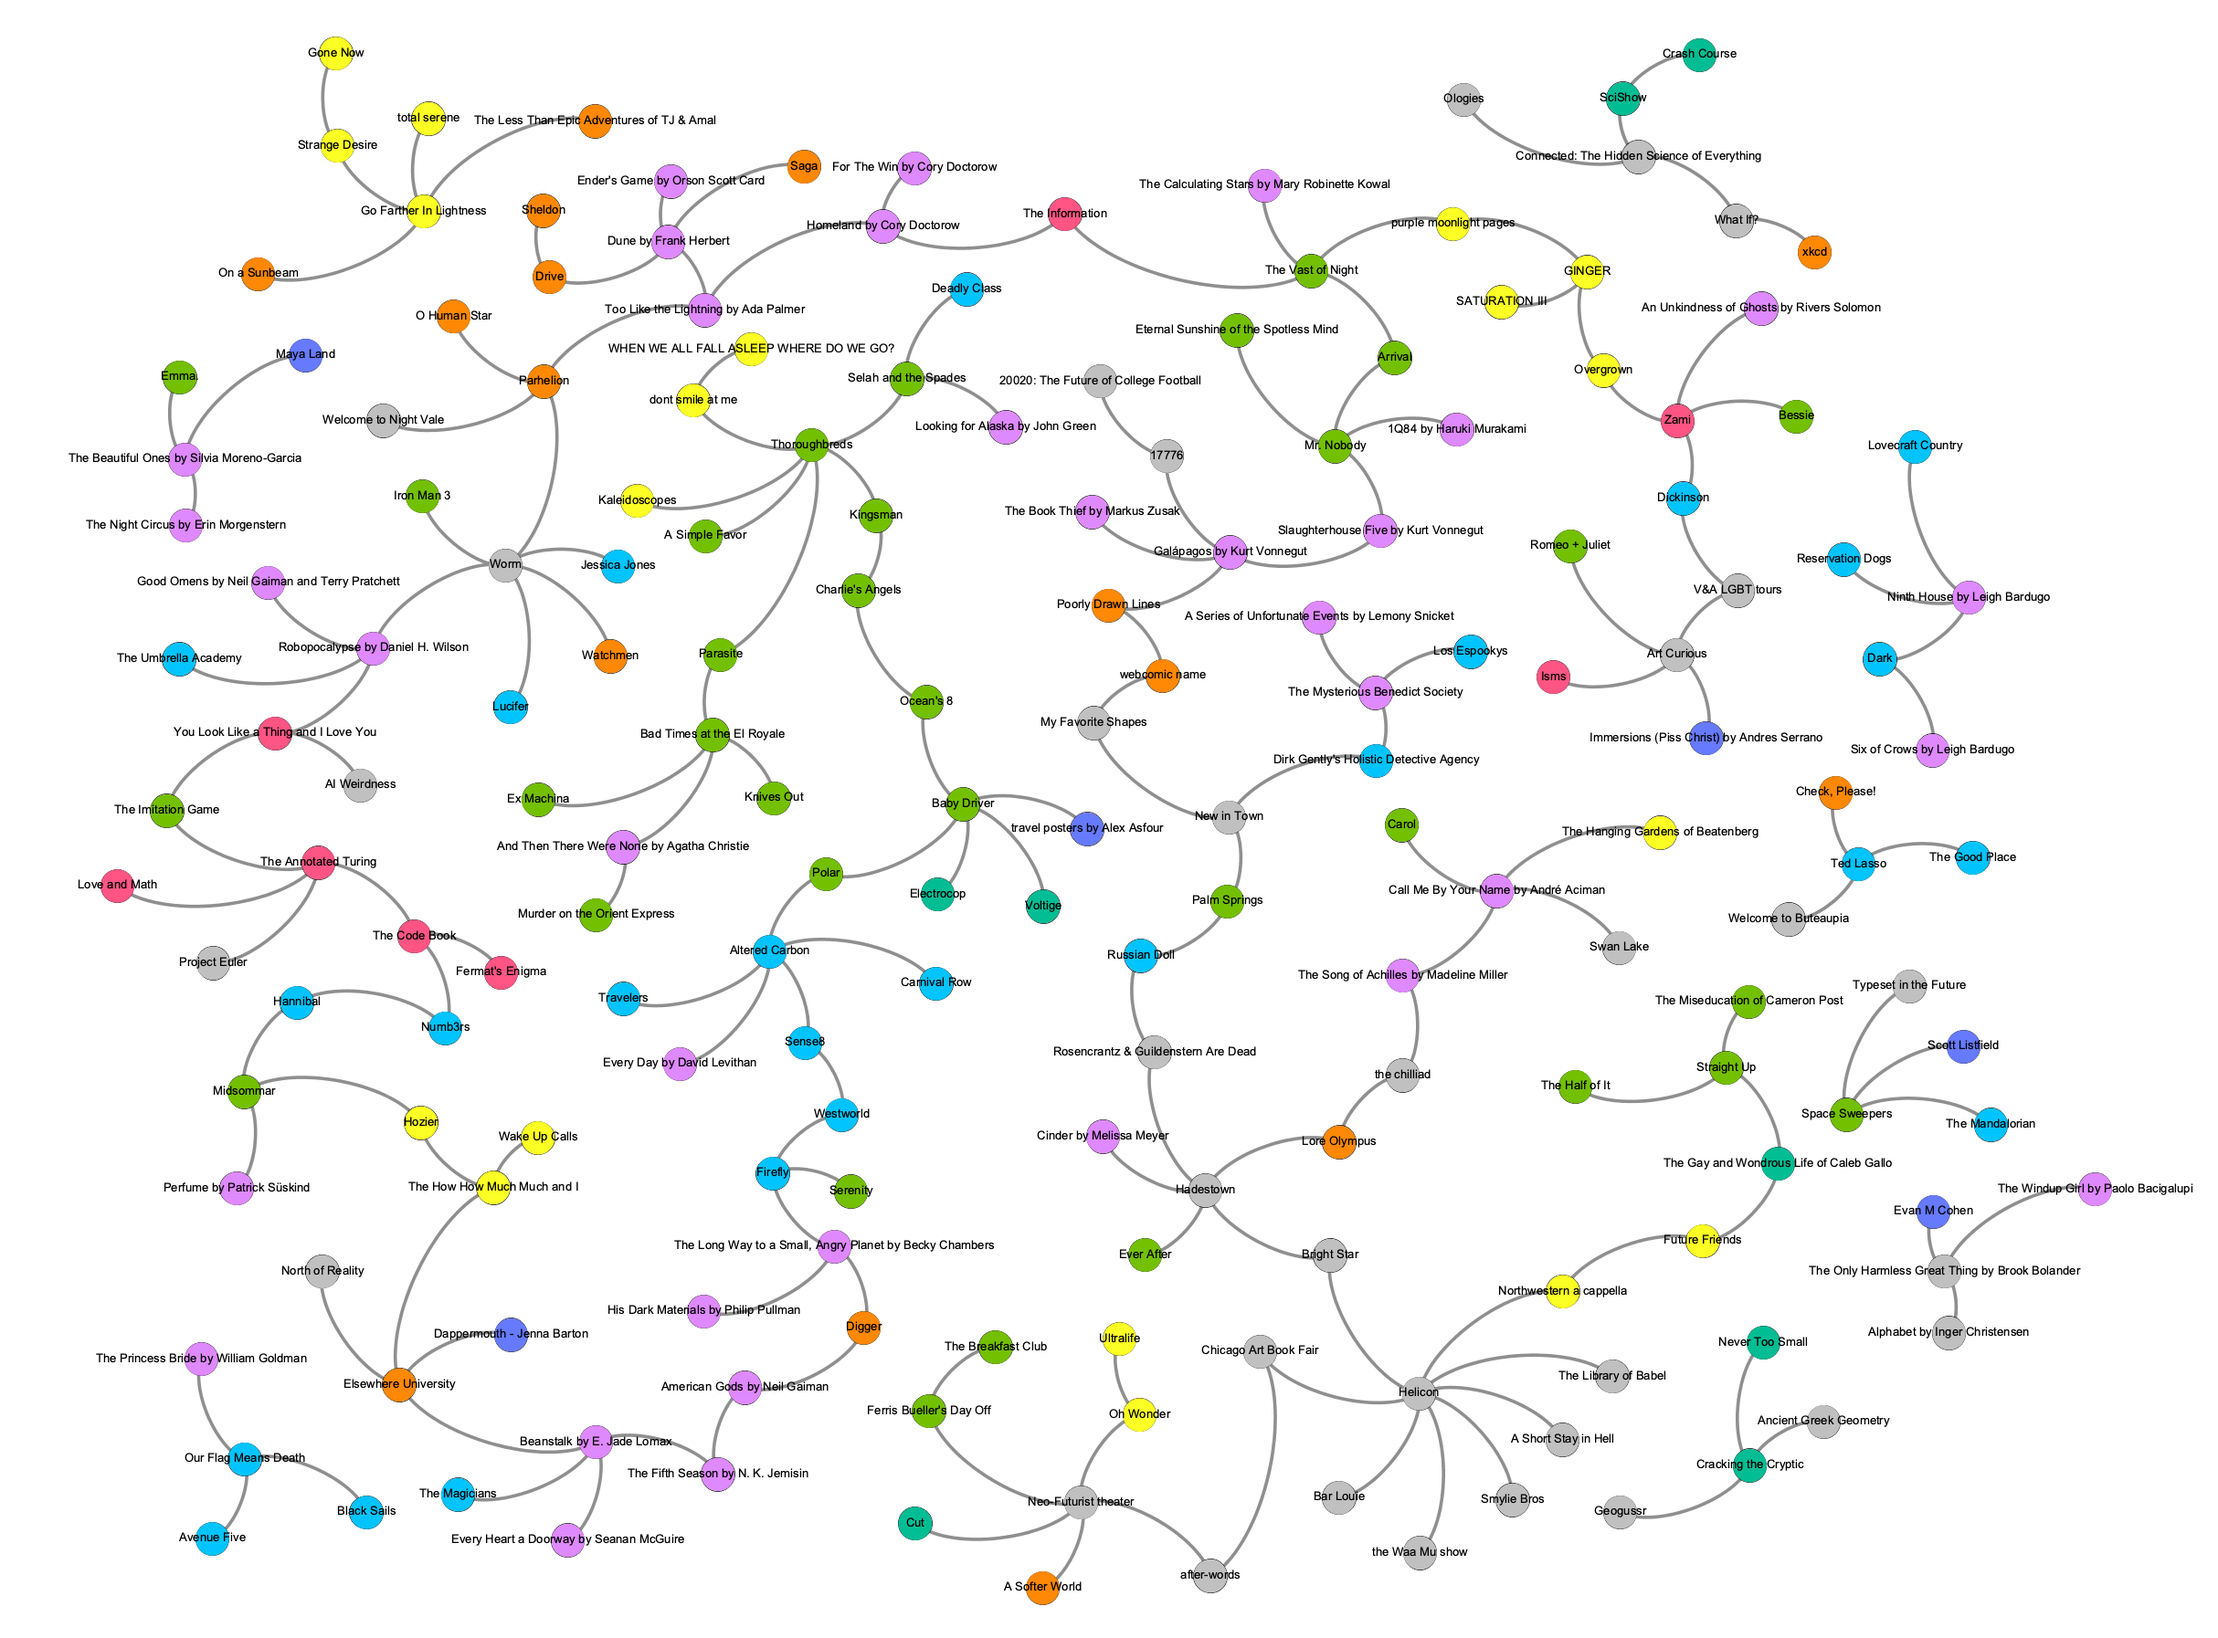
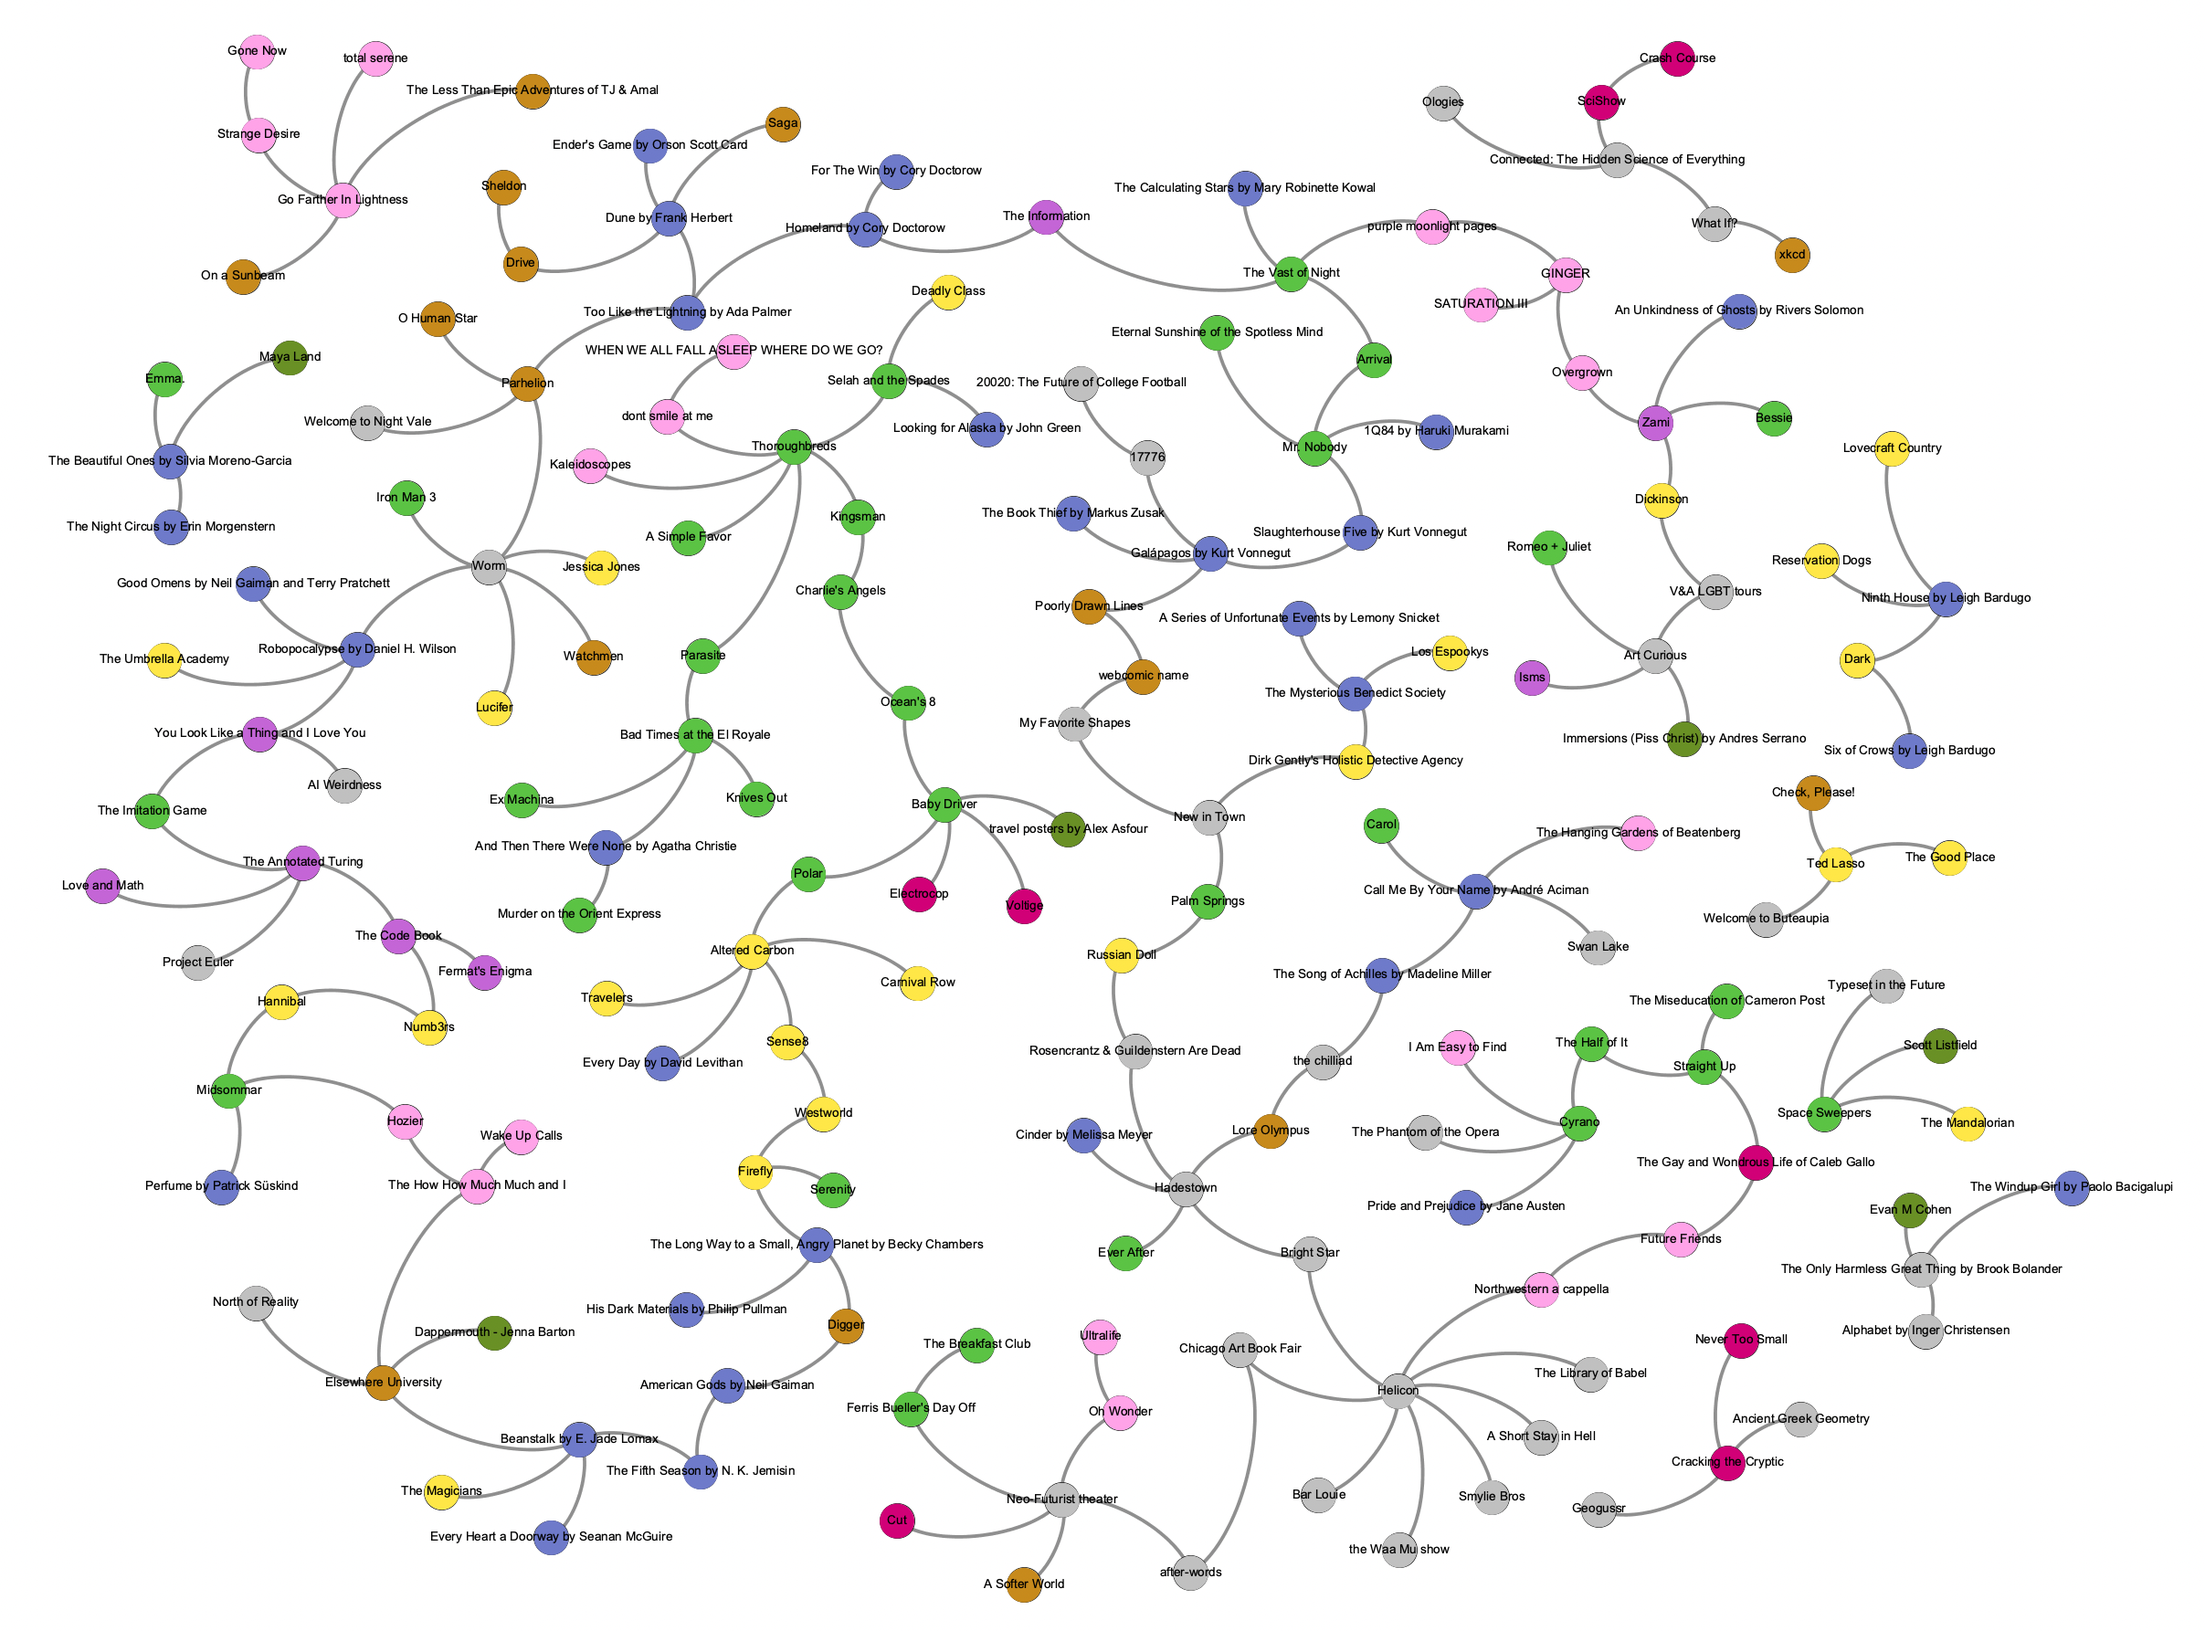
signed sealed delivered im yours nbb

diff --git a/nbb/signed-sealed-delivered-im-yours.html b/nbb/signed-sealed-delivered-im-yours.html
@@ -1,38 +1,26 @@
 <html>
 <head>
 <link href='https://fonts.googleapis.com/css?family=Open Sans' rel='stylesheet'>
-<link rel="stylesheet" type="text/css" href="mystyle.css">
+<link rel="stylesheet" type="text/css" href="../mystyle.css">
 <title>Sometimes Katherine - blog</title>
 </head>
 <body>
 <div class="topnav">
-	<a href="index.html">home</a>
-	<a href="about.html">about</a>
-	<a href="resume.html">resume</a>
-  <a class="active" href="nbb.html">blog</a>
-	<a href="links.html">links</a>
+	<a href="../index.html">home</a>
+	<a href="../about.html">about</a>
+	<a href="../resume.html">resume</a>
+  <a href="../nbb.html">blog</a>
+	<a href="../links.html">links</a>
 </div>
 <br>
 <div class="maincol">
 	<h1>Never Be Bored</h1>
-
-<!--
-1. Create new_post.html.
-2. Copy/paste last.html formatting into new_post.html.
-3. Copy/paste new post into nbb.html. Adjust prev link. Adjust permalink.
-4. Fix chars. Replace these: ’ “ ” — &mdash; and then recopy copy from the archive page.
-5. Copy/paste new post from nbb.html into new.html. Adjust prev link.
-6. In last.html, adjust next link.
-7. In archive, add new recs into by post and by category.
-8. Update the maps.
-
--->
   <div class="blognav">
-  	<a href="nbb/aye-aye-captain.html">prev</a>
-  	<a href="nbb/archive.html">archive</a>
-		<a style="display:none" href="nbb.html">next</a>
+  	<a href="aye-aye-captain.html">prev</a>
+  	<a href="archive.html">archive</a>
+		<a href="../nbb.html">next</a>
   </div><br>
-	<p>8 June 2022</p>
+  <p>8 June 2022</p>
   <h2>Signed, sealed, delivered, I'm yours</h2>
 
 	<p><i>Cyrano</i>, 2021 Joe Wright film. <i>The Phantom of the Opera</i>, 2004 Joel Schumacher film and Gaston Leroux novel; <i>I Am Easy to Find</i> album by the National; <i>Pride and Prejudice</i> novel by Jane Austen and 2005 Joe Wright film.</p>
@@ -52,13 +40,10 @@
 	<p>My favorite song from <i>Cyrano</i> is "<a href="https://open.spotify.com/track/0ZgkGCWeGqTKDebKHLhxkK?si=efbdbcaaaf394828">Wherever I Fall - Pt. 1</a>," which absolutely stomped on my heart. Music and lyrics from the musical were written by Matt Berninger, Aaron Dessner, and Bryce Dessner of the National, along with Carin Besser, who also sometimes writes lyrics for the band. I like falling asleep listening to their album <i><a href="https://open.spotify.com/album/5M5LPGsAR9mxbBa22GOp5h?si=Mi4lwfoSRJC2ygSHN_rYow">I Am Easy to Find</a></i>; my favorites are the titular song, with its slow, repeating chorus, "Not in Kansas," and "Light Years."</p>
 
 	<p>If you're a fan of the romantic pining and clever wit of <i>Cyrano</i>, like period drama, and daydream about exchanging handwritten letters, then <i><a href="https://bookshop.org/books/pride-and-prejudice-9780141439518/9780553213102">Pride and Prejudice</a></i> by Jane Austen is for you. Although there are many adaptations, I have to say my favorite is the 2005 <a href="https://www.imdb.com/title/tt0414387/?ref_=nv_sr_srsg_7">movie</a>, coincidentally by the same director as <i>Cyrano</i>, Joe Wright.</p>
-	
-	<hr>
 
-<p style="color:gray; font-size:16px">Never Be Bored is a recommendation blog documenting my journey through my never-ending queue. For each thing I like, I'm recommending things to go with it based on similar themes&mdash;not just books for book posts or movies for movie posts, but music and comics too, things you might not see otherwise. Read the archives <a href="nbb/archive.html">here</a>. For a permalink to this post, click <a href="nbb/signed-sealed-delivered-im-yours.html">here</a>.</p>
+  </div>
 
-</div>
-<div class="footer">
+  <div class="footer">
 	<p>&copy 2018-2022 Sometimes Katherine - Built by Katherine Steiner</p>
 </div>
 </body>

diff --git a/nbb/archive.html b/nbb/archive.html
@@ -23,9 +23,11 @@
 	</div>
 
 	<!-- Replace these: ’ “ ” —
-	I think the total count = find < b r > and then subtract 2?-->
+	I think the total count = find < b r > and then subtract 4?-->
 	<br>
 	<div class="archive-container" id="byPost">
+		<p><a href="signed-sealed-delivered-im-yours.html">XXXIX. Signed, sealed, delivered, I'm yours</a> <i>Cyrano</i>, 2021 Joe Wright film. <i>The Phantom of the Opera</i>, 2004 Joel Schumacher film and Gaston Leroux novel; <i>I Am Easy to Find</i> album by the National; <i>Pride and Prejudice</i> novel by Jane Austen and 2005 Joe Wright film.</p>
+
 		<p><a href="aye-aye-captain.html">XXXVIII. Aye aye, captain</a> <i>Our Flag Means Death</i>, tv show. <i>Black Sails</i>, tv show; <i>Avenue Five</i> tv show; <i>The Princess Bride</i> book by William Goldman and 1987 Rob Reiner movie.</p>
 
 		<p><a href="and-poems-exist-poems-days-death.html">XXXVII. and poems exist; poems, days, death</a> <i>The Only Harmless Great Thing</i> by Brooke Bolander. <i>Alphabet</i> by Inger Christensen, translated by Susanna Nied; <i>The Windup Girl</i> by Paolo Bacigalupi; art by Evan M Cohen.</p>
@@ -150,6 +152,7 @@
 
 		<h2 class='archive-category' id='BooksF'>Books - fiction</h2>
 		<p>Call Me By Your Name by Andr&eacute; Aciman<br>
+		Pride and Prejudice by Jane Austen<br>
 		The Windup Girl by Paolo Bacigalupi<br>
 		Ender's Game by Orson Scott Card<br>
 		The Long Way to a Small, Angry Planet by Becky Chambers<br>
@@ -166,6 +169,7 @@
 		Dune by Frank Herbert<br>
 		The Fifth Season by N. K. Jemisin<br>
 		The Calculating Stars by Mary Robinette Kowal<br>
+		The Phantom of the Opera by Gaston Leroux<br>
 		Every Day by David Levithan<br>
 		Beanstalk by E. Jade Lomax<br>
 		Every Heart a Doorway by Seanan McGuire<br>
@@ -225,6 +229,7 @@
 		Call Me By Your Name, 2017<br>
 		Carol, 2015<br>
 		Charlie's Angels, 2019<br>
+		Cyrano, 2021<br>
 		Emma., 2020<br>
 		Eternal Sunshine of the Spotless Mind, 2004<br>
 		Ever After, 1998<br>
@@ -243,7 +248,9 @@
 		Ocean's 8, 2018<br>
 		Palm Springs, 2020<br>
 		Parsite, 2019<br>
+		The Phantom of the Opera, 2004<br>
 		Polar, 2019<br>
+		Pride and Prejudice, 2005<br>
 		The Princess Bride, 1987<br>
 		Romeo + Juliet, 1996<br>
 		Selah and the Spades, 2019<br>
@@ -269,6 +276,7 @@
 		Hozier by Hozier<br>
 		Wasteland, Baby! by Hozier<br>
 		Overgrown by Ivy Sole<br>
+		I Am Easy to Find by the National<br>
 		Northwestern a cappella<br>
 		Oh Wonder by Oh Wonder<br>
 		Ultralife by Oh Wonder<br>
@@ -279,7 +287,9 @@
 
 		<h2 class='archive-category' id='Musicals'>Musicals</h2>
 		<p>Bright Star<br>
+		Cyrano<br>
 		Hadestown<br>
+		The Phantom of the Opera<br>
 		the Waa Mu Show</p>
 
 		<h2 class='archive-category' id='Plays'>Plays</h2>

diff --git a/nbb/aye-aye-captain.html b/nbb/aye-aye-captain.html
@@ -18,7 +18,7 @@
   <div class="blognav">
   	<a href="and-poems-exist-poems-days-death.html">prev</a>
   	<a href="archive.html">archive</a>
-		<a href="../nbb.html">next</a>
+		<a href="signed-sealed-delivered-im-yours.html">next</a>
   </div><br>
   <p>10 April 2022</p>
   <h2>Aye aye, captain</h2>
